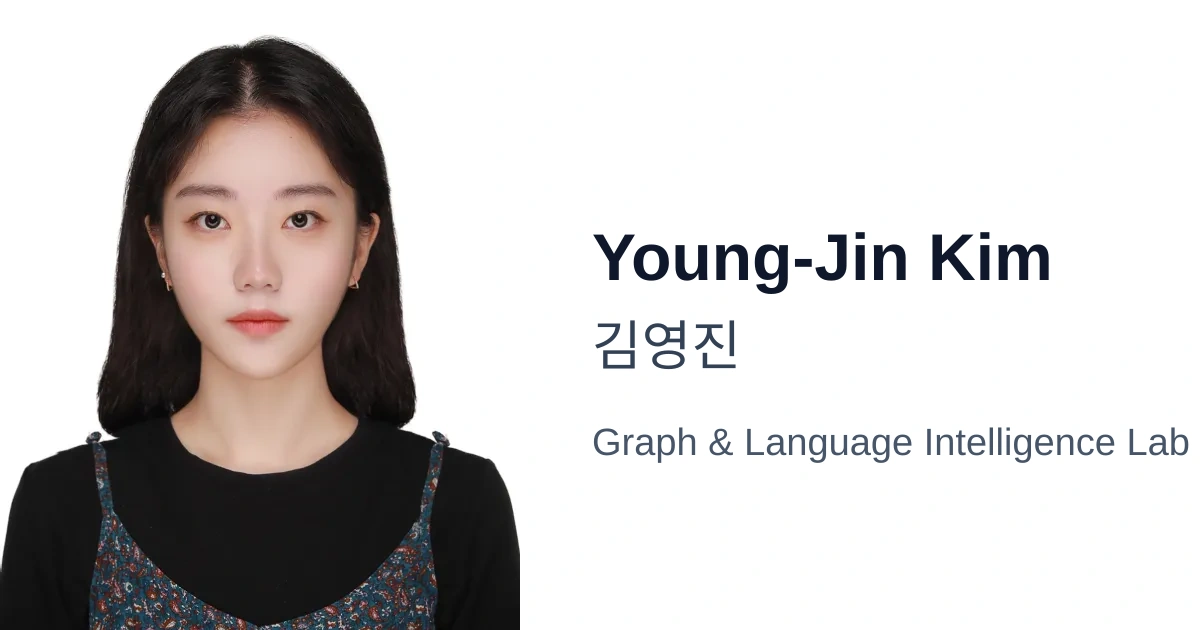
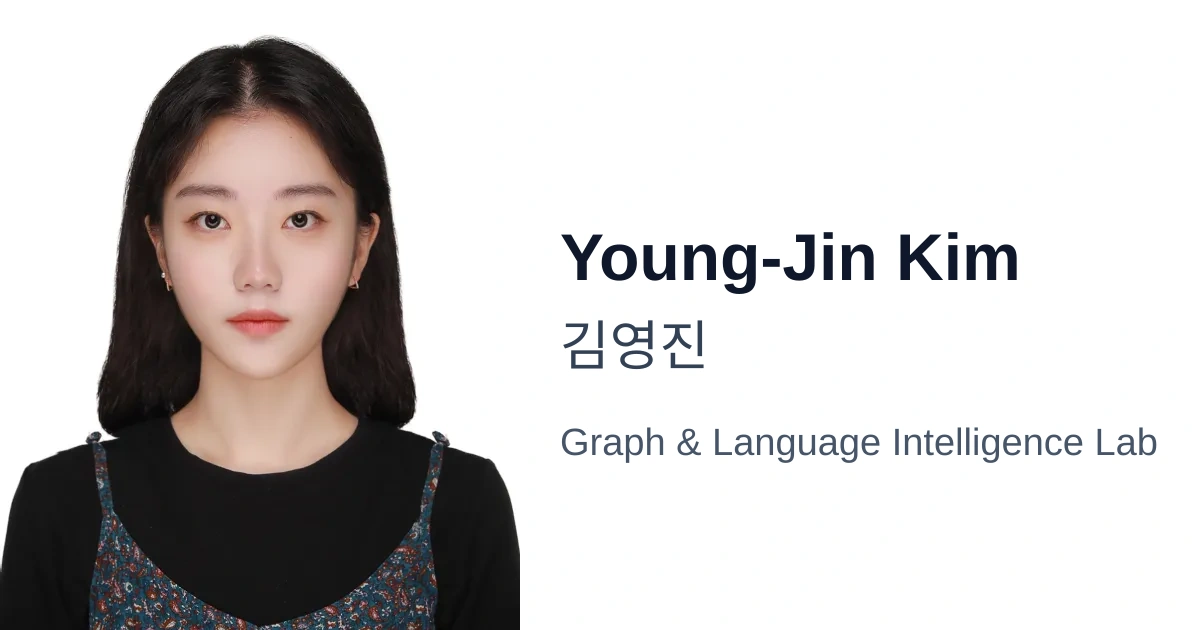
enhance opengraph profile

Changed region(s): [[0.4625, 0.3619, 0.8942, 0.4825], [0.4625, 0.6635, 1.0, 0.754], [0.4625, 0.5127, 0.6167, 0.6032]]

diff --git a/scripts/generate-og-images.js b/scripts/generate-og-images.js
@@ -122,19 +122,19 @@ async function generateOGImageWebP({ photoUrl, nameEn, nameKo }) {
     const labY = nameKo ? 455 : 400;
     
     let textSvg = `<svg width="${width}" height="${height}">
-      <text x="592" y="${textY}" font-family="Arial, sans-serif" font-size="66" font-weight="700" fill="#0f172a" text-anchor="start">
+      <text x="560" y="${textY}" font-family="Arial, sans-serif" font-size="66" font-weight="700" fill="#0f172a" text-anchor="start">
         ${nameEn || 'GLI Lab Member'}
       </text>`;
     
     if (nameKo) {
       textSvg += `
-      <text x="592" y="${koreanY}" font-family="Arial, sans-serif" font-size="54" fill="#334155" text-anchor="start">
+      <text x="560" y="${koreanY}" font-family="Arial, sans-serif" font-size="54" fill="#334155" text-anchor="start">
         ${nameKo}
       </text>`;
     }
     
     textSvg += `
-      <text x="592" y="${labY}" font-family="Arial, sans-serif" font-size="38" fill="#475569" text-anchor="start">
+      <text x="560" y="${labY}" font-family="Arial, sans-serif" font-size="38" fill="#475569" text-anchor="start">
         Graph &amp; Language Intelligence Lab
       </text>
     </svg>`;
